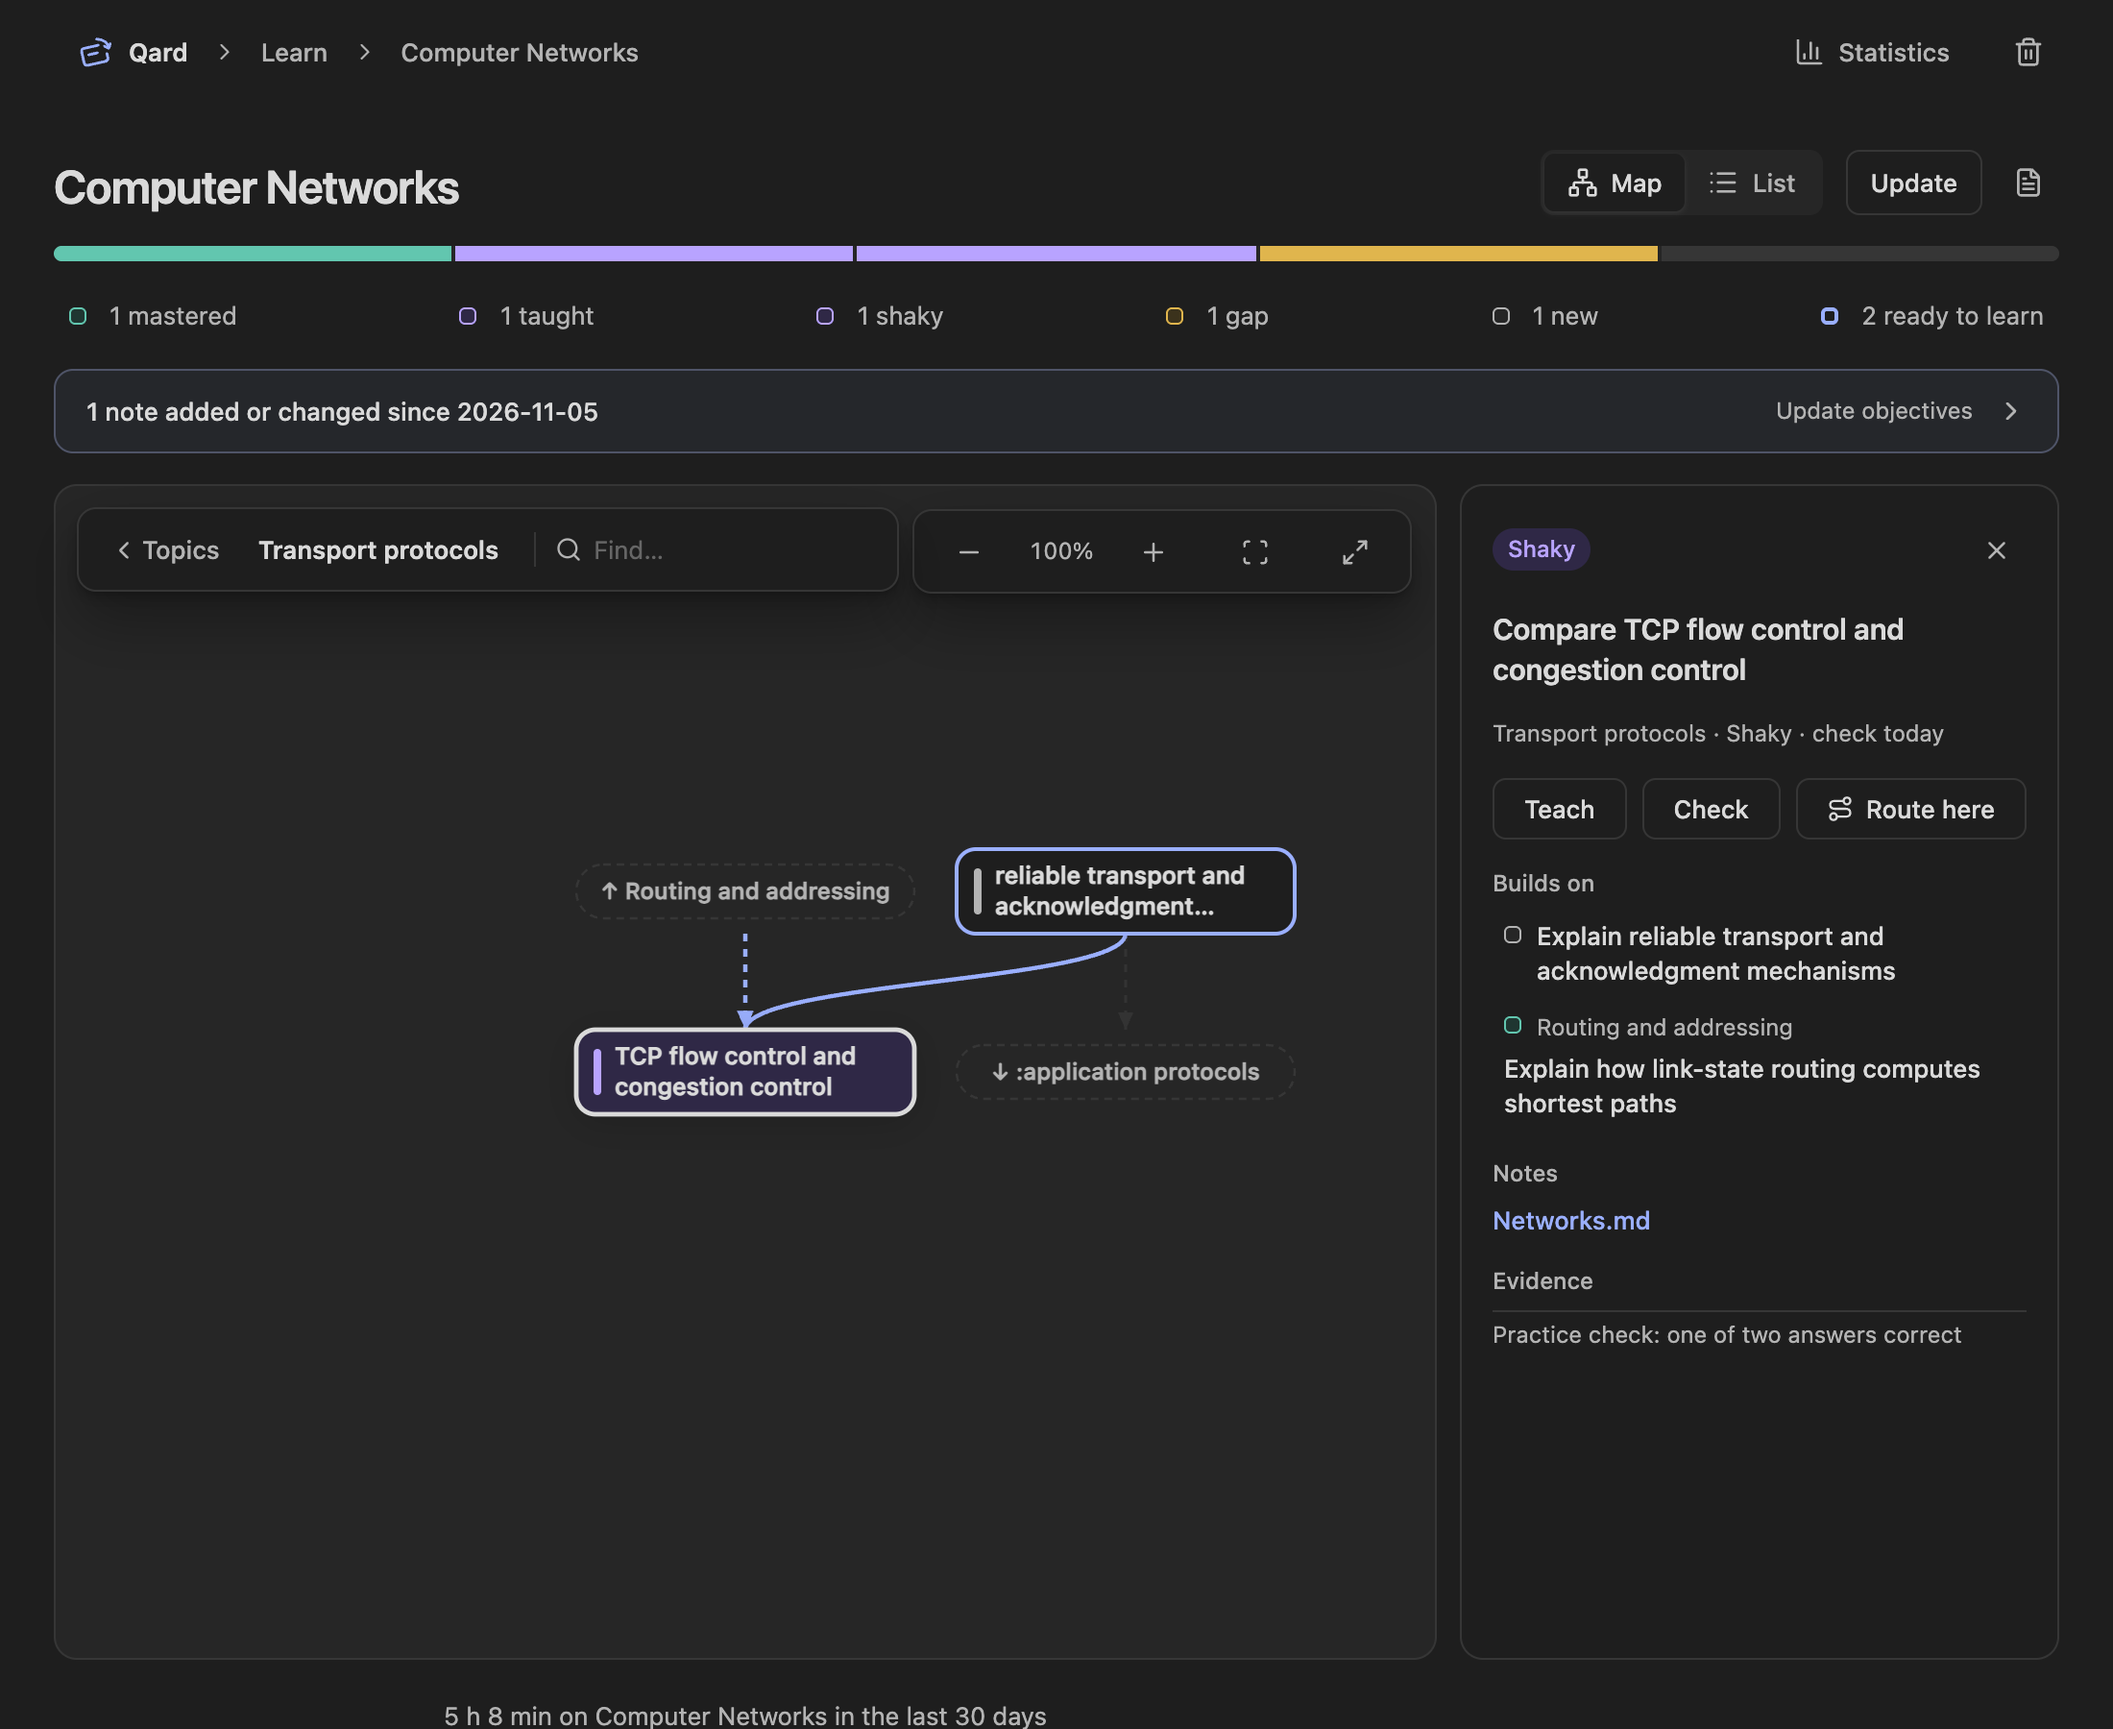
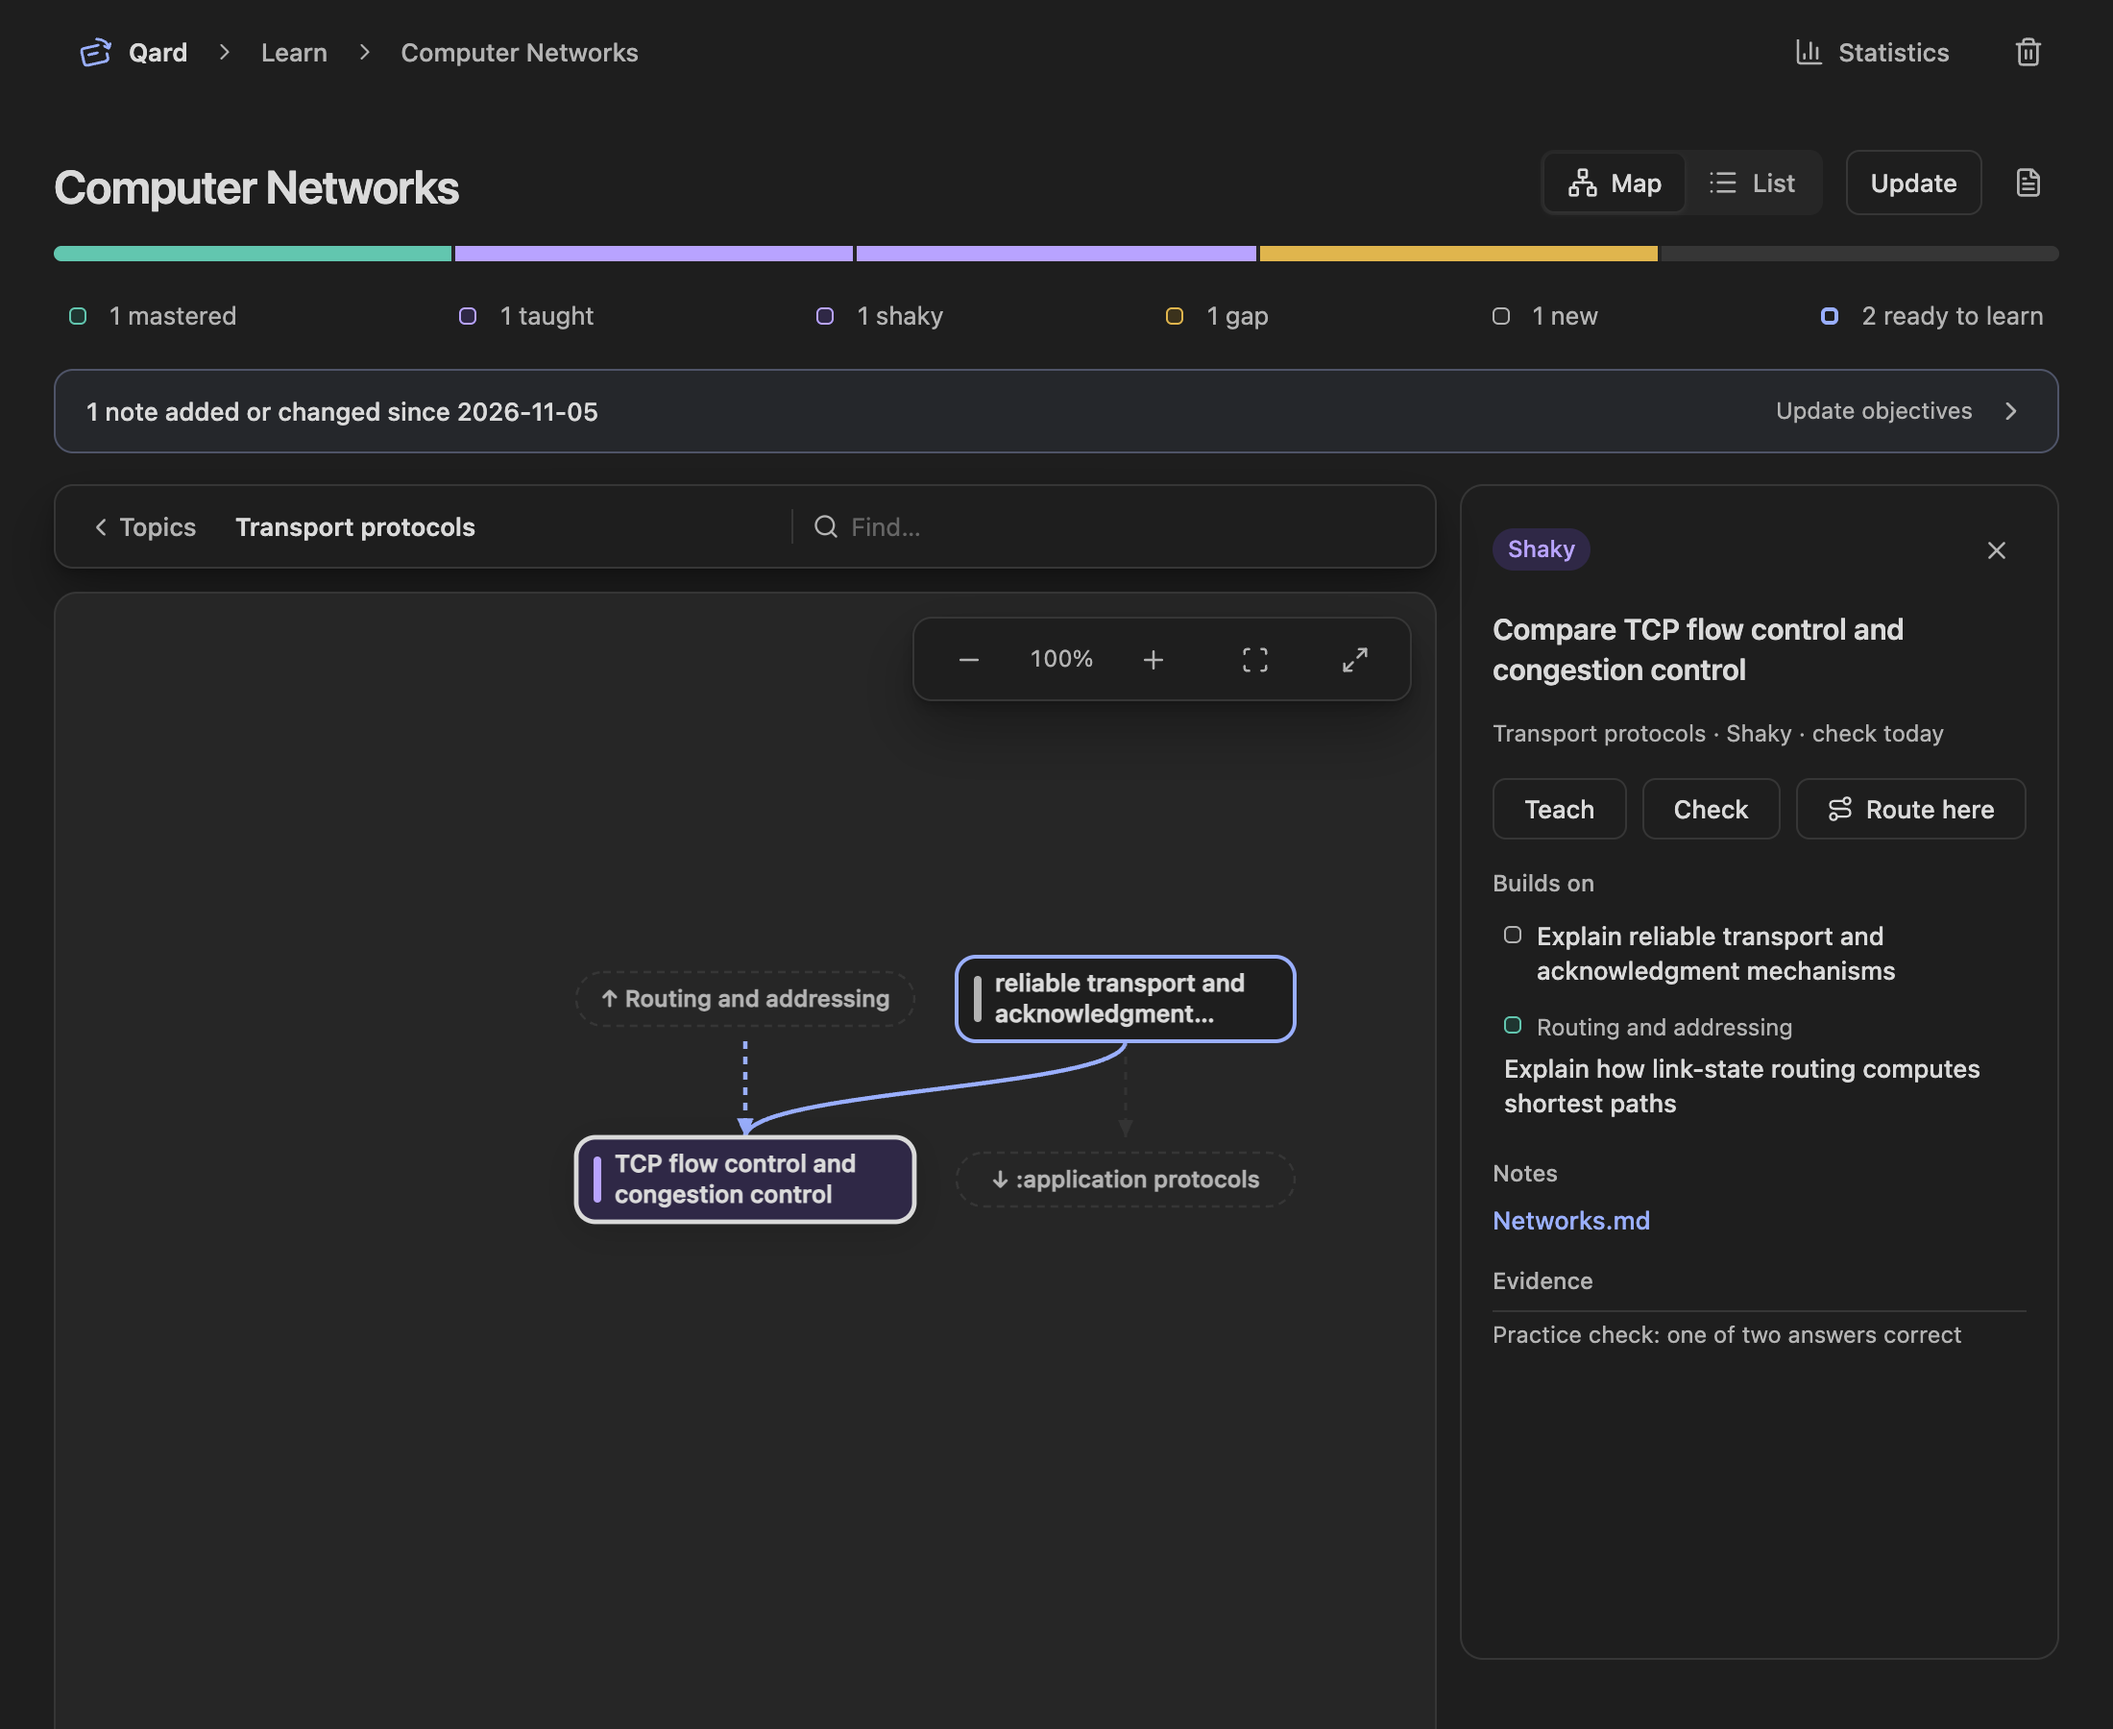
Refresh main-to-latest visual evidence for final mobile refinements

diff --git a/docs/images/ui-main-latest/audit-report.md b/docs/images/ui-main-latest/audit-report.md
@@ -1,35 +1,28 @@
-# Qard PR #11 — three-pass visual audit
+# Final visual verification
 
-Scope: layout, spacing, colors, radii and typography across mobile, tablet, desktop and split panes. Keyboard accessibility was excluded as requested. Checks use stock Obsidian CSS, light/dark themes, 320–1280px panes, standard/enlarged UI text and 16/32px reading text. Native checks use the separate Qard test app/profile/vault.
+Source: `8ae6dba2dac331f23d3b436b950f150fc6881303`. Baseline: fork main `70056821914f0dae910b52a20f1fa3329b04d0ac`.
 
-## Pass 1 — layout and spacing
+Scope: layout, spacing, color, radius and typography on narrow touch panes and desktop, in light and dark themes. Keyboard accessibility was outside the requested audit scope. No DESIGN.md was added.
 
-Fixed three verified issues:
+The prior three audit passes addressed nested-deck overflow, duplicate builder dividers, enlarged exam layouts, reading-size roles, selected-answer colors and Statistics typography. The latest user refinements supersede the earlier mobile treatments:
 
-- **P1: Nested decks widened the mobile library.** At 320px, content extended to 423px; enlarged UI text extended it to 494px. Deck nodes now shrink correctly, with related actions kept together and wrapped as a group. All eight nested-deck scenarios fit after the fix.
-- **P2: Exam steps and footer clipped with enlarged text.** The Continue button extended about 32px beyond a 320px pane. Steps and footer now wrap; step indicators retain their width. All six form scenarios fit.
-- **P3: The mobile builder drew two separators before Session.** Removed the redundant Session top border/inset, retaining the deck-list boundary and section gap.
+- Map navigation uses the full width above the canvas. Zoom controls float within the canvas.
+- Status pills stay inline with objective titles in compact panes.
+- Learn header actions share one full-width mobile row.
+- Plan readiness is hidden in compact panes and remains in the desktop header.
+- Deck actions use matching 16px icons and equal compact slots, wrap as a full-width group when needed, and place Study all last with a play-only compact control.
+- The exam editor uses three balanced compact steps and two equal footer buttons. Its representative screenshot includes the normal page gutters and default UI text.
+- Revealed basic cards demote the question context, retain readable answers and size to the active face. Cloze/image cards retain reading-size typography.
+- The background-marking helper sentence is removed. The primary test action fills the mobile footer width.
 
-## Pass 2 — color and typography tokens
+## Fresh validation
 
-Fixed three verified issues:
+- `npm run check`: 765 tests in 95 suites, formatting, TypeScript, ESLint, Stylelint, build and release checks passed.
+- 216 integrated scenes across light/dark themes and phone, tablet, desktop and narrow split panes: no runtime errors, horizontal overflow or out-of-bounds panels.
+- 72 focused assertions passed for toolbar geometry, inline status, action-row width, readiness visibility, deck order/icon dimensions, active study-face sizing and test-footer behavior.
+- 16 cloze/image cases passed across light/dark themes, 320/390px panes and 16/32px reading sizes.
+- 24 matched main-to-final screenshot pairs captured without runtime errors. The manifest records conditions and all 48 image hashes.
+- Native isolated Obsidian smoke checks passed for Learn controls, map width, inline objectives, hidden compact readiness, five deck action groups and revealed-card typography. Temporary width overrides were removed afterward.
+- The isolated plugin install matches the built source. DevBook plugin files, global Obsidian vault configuration and installed Obsidian app hashes remain unchanged. The separate test app remains open.
 
-- **P2: Selected-answer and native selection accents ignored the dark-theme token.** Both now use `--qard-blue`.
-- **P2: Study questions ignored the reading-size preference.** Front/back questions previously stayed at 25/18px while answer text grew to 32px. Their sizes now derive from `--qard-font-reading`, maintaining question/answer hierarchy.
-- **P2: Compact Statistics captions stayed at 9px.** Captions now use the metadata token; numeric sizes and the metric grid adapt to the UI font settings.
-
-All 30 targeted color/type scenarios passed. Radius roles were checked across controls, segmented controls, surfaces, badges, status pills and choice rows.
-
-## Pass 3 — integrated regression audit
-
-- **216 scenarios:** both themes; six device/pane arrangements; 18 states, including populated plans, nested decks, selected answers, revealed study cards and actual app course navigation.
-- **44 focused scenarios:** nested decks, exam forms and reading/metadata/selection scaling.
-- No runtime errors, horizontal overflow, out-of-pane panels or new verified visual regressions in these checks.
-- **765 tests in 95 suites passed**, along with formatting, TypeScript, ESLint, Stylelint, build and release checks.
-- Native Obsidian checks passed for nested decks, builder selection color, and exam-editor reflow. Only owned synthetic notes were added to the isolated test vault. DevBook's plugin, configuration and installed app hashes remain unchanged.
-
-## Evidence and limits
-
-The PR screenshot tables compare fork `main` to the final PR revision only. Each pair uses matching data, pane width, theme, input mode, typography settings, clock and interactions. The capture manifest records source commits and image hashes.
-
-Responsive coverage uses emulation and desktop split panes; physical iPhone/Safari testing was not performed. No development server was required; screenshots use local browser fixtures. The isolated test Obsidian app remains open.
+Phone coverage uses touch emulation and compact panes. Physical iPhone/Safari validation was not performed. No development server was required for the file-based fixtures.
